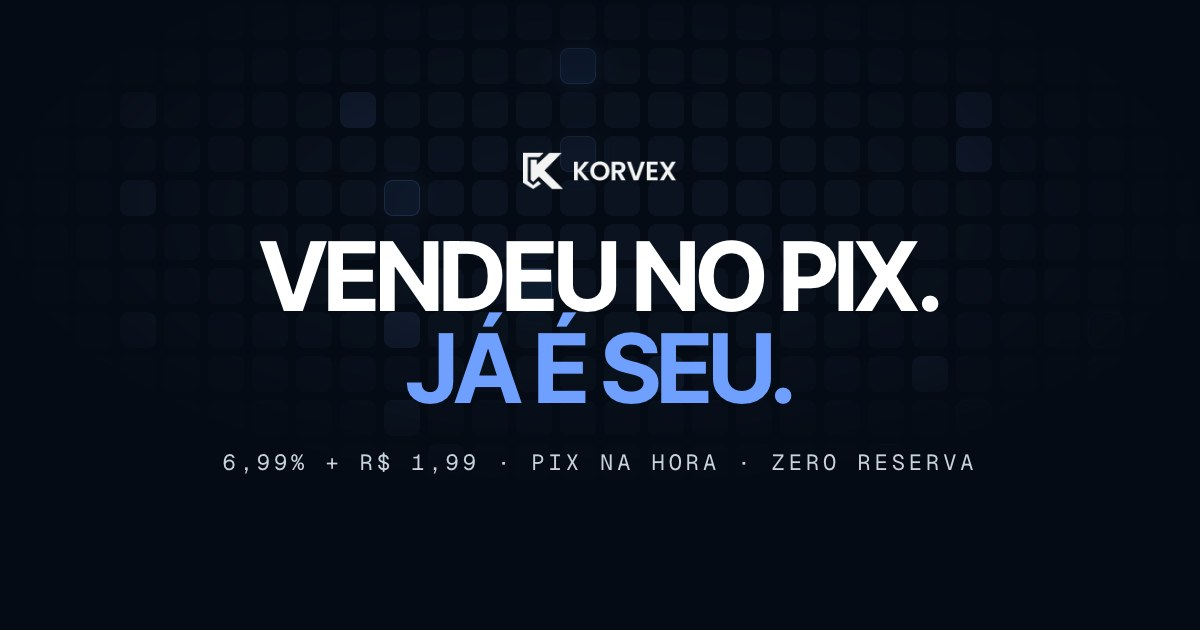
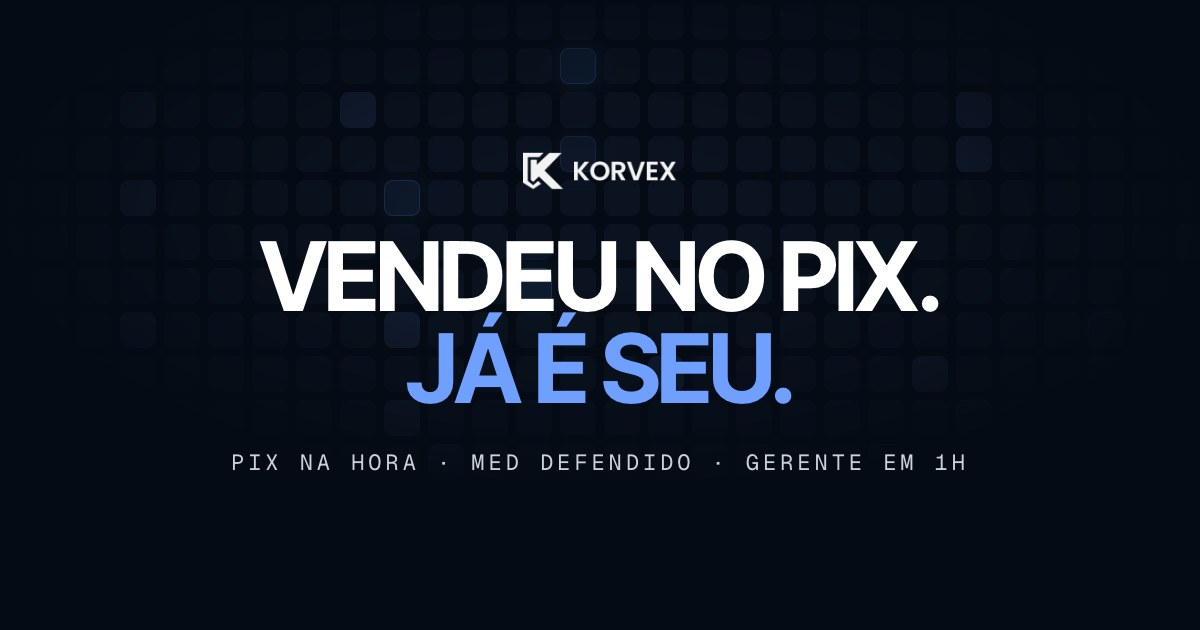
Taxa nova 6,99% + R$ 2,49 e site focado no serviço
Calculadora de taxas trocada pela seção "Vendeu. O resto é com a gente."
(registro da venda + o que vem na conta). Topo, barra fixa, CTA final,
rodapé, menu, título, descrição e imagem de compartilhamento sem falar de
taxa. Valor só no FAQ e nos termos. Contas das animações usam o fixo novo.

Changed region(s): [[0.185, 0.7238, 0.8325, 0.754]]

diff --git a/src/lib/faq.ts b/src/lib/faq.ts
@@ -1,6 +1,6 @@
 // Perguntas frequentes: usadas no FAQ e no JSON-LD (FAQPage)
 export const faqs = [
-  { icon: 'coin',    q: 'Quanto custa?', a: '6,99% + R$ 1,99 por venda aprovada. Sem setup, mensalidade ou mínimo.' },
+  { icon: 'coin',    q: 'Quanto custa?', a: '6,99% + R$ 2,49 por venda aprovada. Sem setup, mensalidade ou mínimo.' },
   { icon: 'clock',   q: 'Quando o dinheiro cai?', a: 'No Pix, a venda vira saldo disponível na hora. O saque é conferido por gente, em horário comercial, e sai por Pix para a sua chave.' },
   { icon: 'shield',  q: 'Tem reserva de segurança?', a: 'Não. O que você vendeu no Pix fica disponível inteiro.' },
   { icon: 'flag',    q: 'E quando chega um MED?', a: 'A defesa é montada sozinha com o histórico do comprador. Você revisa ou deixa no automático. Só o valor contestado fica separado enquanto a disputa corre.' },

diff --git a/src/styles/global.css b/src/styles/global.css
@@ -86,14 +86,14 @@ section[id]:not(#topo):not(#produto) {
   contain-intrinsic-size: auto var(--cis, 640px);
 }
 /* valores medidos no build de produção; errado aqui vira salto de scroll */
-#conta      { --cis: 1270px; }
+#conta      { --cis: 920px; }
 #app        { --cis: 815px; }
 #fundador   { --cis: 860px; }
 #premiacoes { --cis: 1335px; }
 #faq        { --cis: 510px; }
 #contato    { --cis: 630px; }
 @media (max-width: 1023px) {
-  #conta      { --cis: 1415px; }
+  #conta      { --cis: 1240px; }
   #app        { --cis: 930px; }
   #fundador   { --cis: 1180px; }
   #premiacoes { --cis: 960px; }
